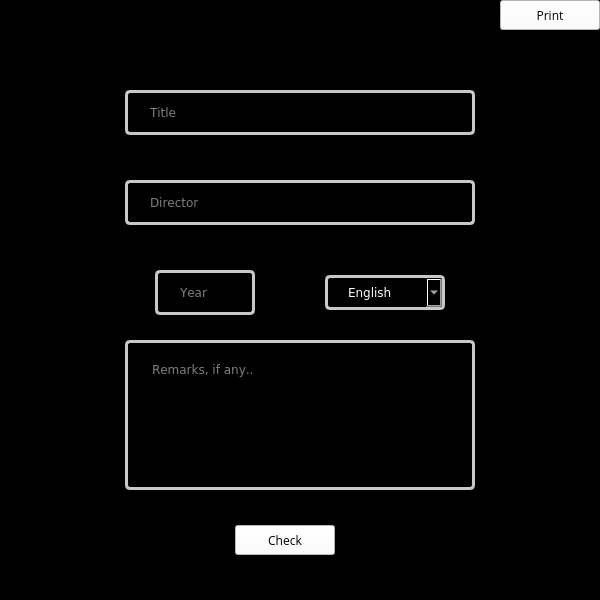
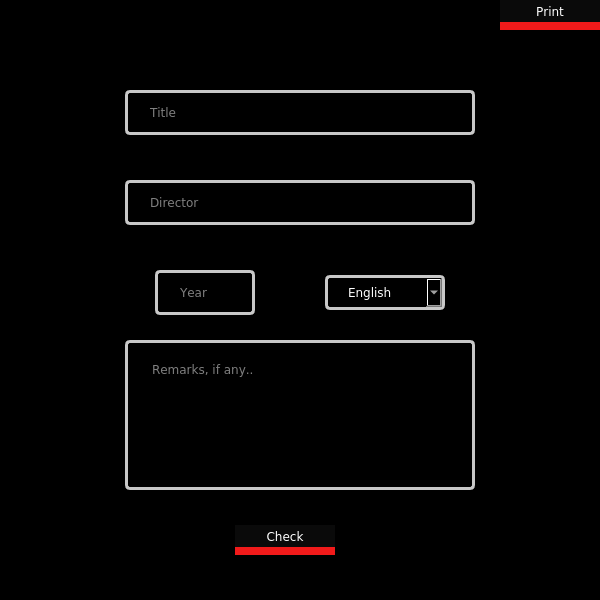
Fifth Commit

Changed region(s): [[0.81, 0.0, 1.0, 0.06], [0.39, 0.87, 0.57, 0.93]]

diff --git a/checklist.py b/checklist.py
@@ -5,15 +5,19 @@ class ChecklistClass(object):
 	def ChecklistFn(self, window):
 		window.setWindowTitle("Movie Checklist")
 
-		pushy = QtWidgets.QPushButton(window)
-		pushy.setStyleSheet("background-color:white")
-		pushy.move(500, 0)
-		pushy.setText("Print")
-		pushy.clicked.connect(lambda: self.PrintList())
-
 		File = open("css/input.css", 'r')
 		inputCSS = File.read().strip()
 		File.close()
+
+		File = open("css/button.css", 'r')
+		buttonCSS = File.read().strip()
+		File.close()
+
+		PrintBtn = QtWidgets.QPushButton(window)
+		PrintBtn.setStyleSheet(buttonCSS)
+		PrintBtn.move(500, 0)
+		PrintBtn.setText("Print")
+		PrintBtn.clicked.connect(lambda: self.PrintList())
 
 		self.title = QtWidgets.QLineEdit(window)
 		self.title.setStyleSheet(inputCSS)
@@ -46,7 +50,7 @@ class ChecklistClass(object):
 		self.remarks.move(125, 340)
 
 		CheckBtn = QtWidgets.QPushButton(window)
-		CheckBtn.setStyleSheet("background-color:white;color:black;")
+		CheckBtn.setStyleSheet(buttonCSS)
 		CheckBtn.move(235, 525)
 		CheckBtn.setText("Check")
 		CheckBtn.clicked.connect(lambda: self.InsertChecked())
@@ -55,7 +59,8 @@ class ChecklistClass(object):
 		mongoconn = MongoClient("mongodb://localhost:27017")
 		print("\r")
 		for index in ( mongoconn.Movie.Checklist.find() ):
-			print(index['Title'],"||",index['Director'],"||",index['Year'],"||",index['Language'])
+			print("\033[1m"+index['Title'],"\033[0m | ",index['Director']," | ",index['Year']," | ",index['Language'])
+
 
 	def InsertChecked(self):
 		mongoconn = MongoClient("mongodb://localhost:27017")
